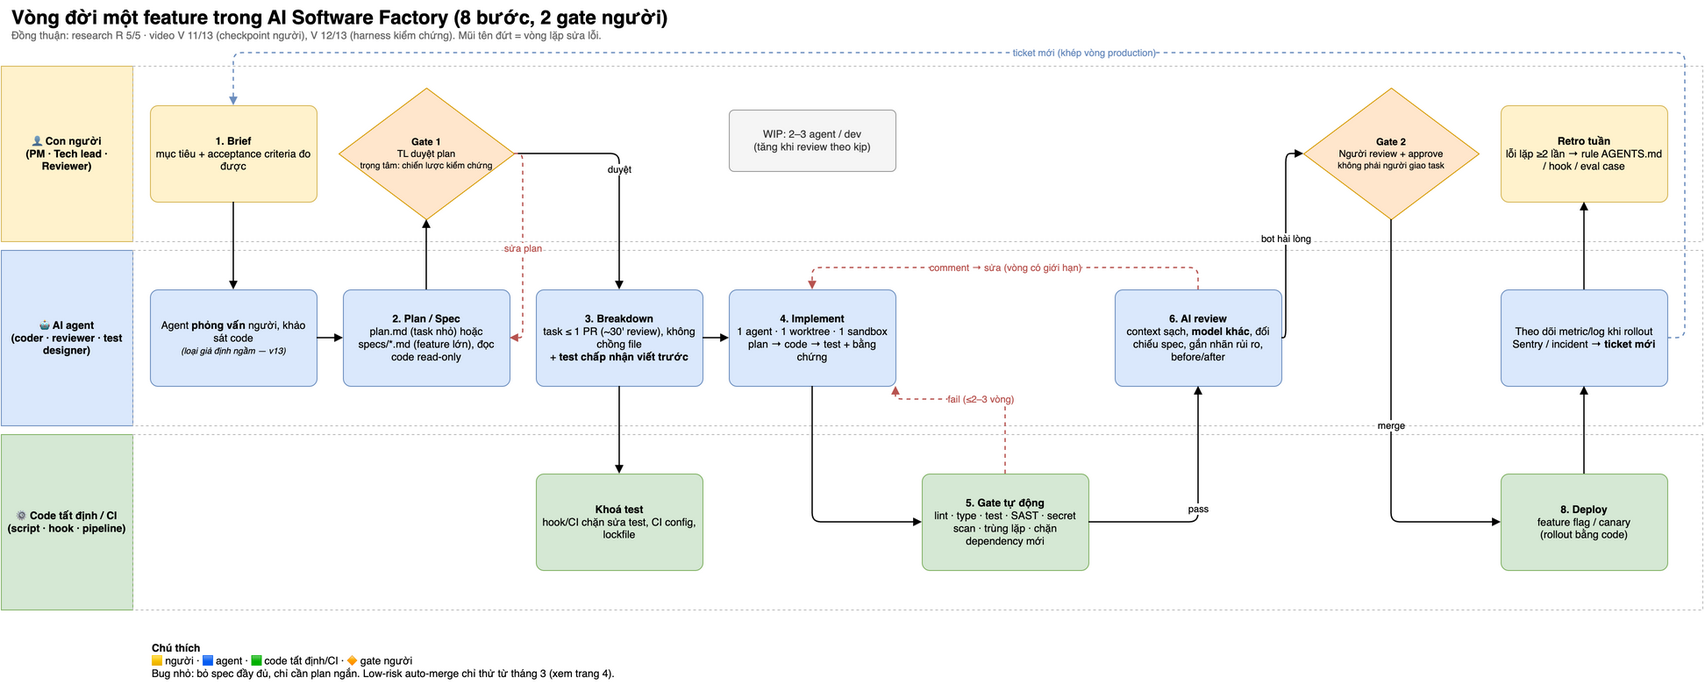
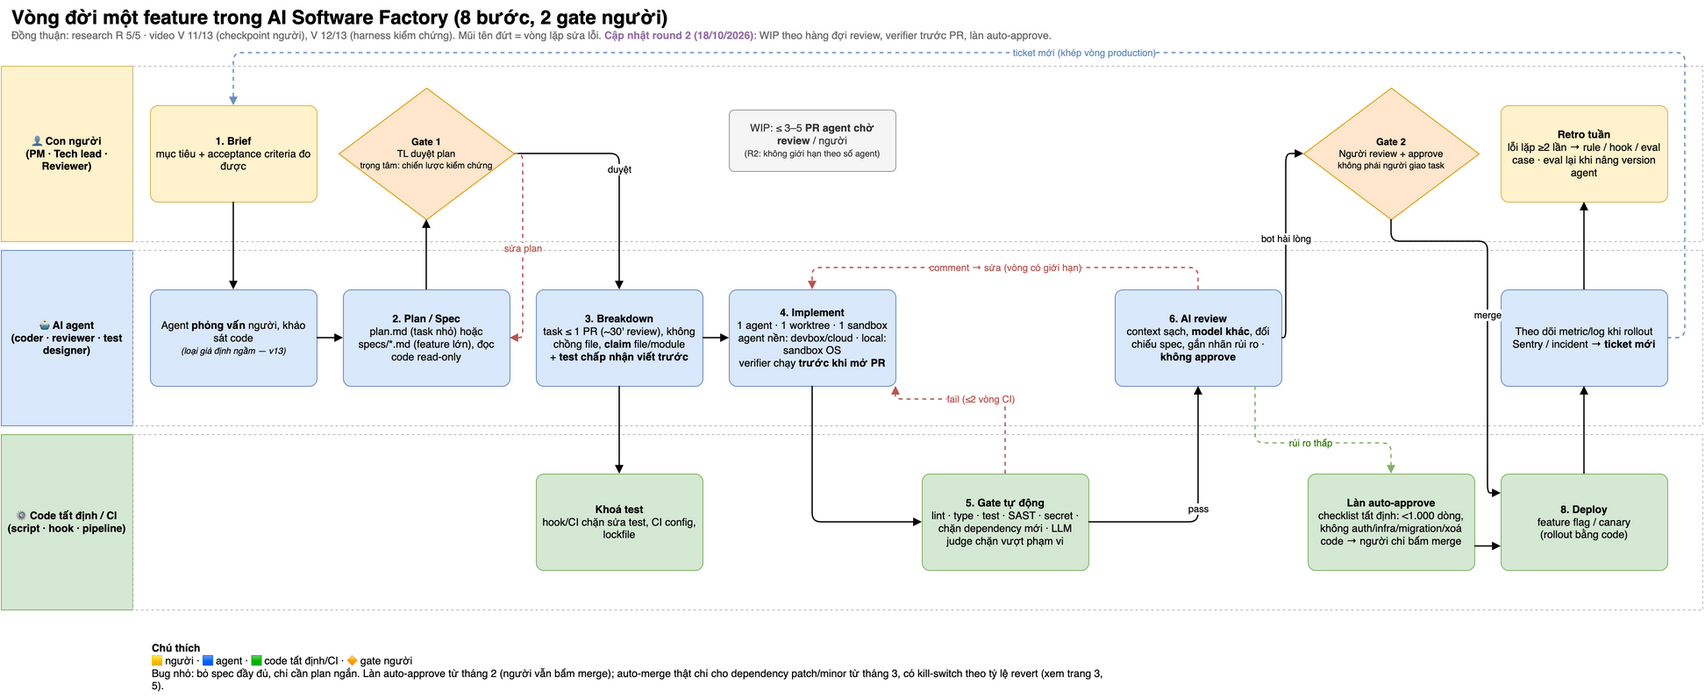
docs(diagrams): update draw.io to round 2 findings, add page 5
- page 1: review-queue WIP, verifier before PR, <=2 CI rounds, auto-approve lane, AI review never approves
- page 2: devbox without prod credentials, cost caps, new telemetry, CI-agent security rules
- page 3: roadmap edits (AGENTS.md hand-written, cost caps, auto-approve -> dep patch auto-merge, stop signals)
- page 4: round 2 verdicts on the 3 tensions
- page 5: round 2 consensus, real disagreements, source fact-check

diff --git a/diagrams/build_drawio.py b/diagrams/build_drawio.py
@@ -55,7 +55,8 @@ def title(p, t, sub):
 def page_process():
     p = Page("1. Quy trình 8 bước", 2000, 900)
     title(p, "Vòng đời một feature trong AI Software Factory (8 bước, 2 gate người)",
-          "Đồng thuận: research R 5/5 · video V 11/13 (checkpoint người), V 12/13 (harness kiểm chứng). Mũi tên đứt = vòng lặp sửa lỗi.")
+          "Đồng thuận: research R 5/5 · video V 11/13 (checkpoint người), V 12/13 (harness kiểm chứng). Mũi tên đứt = vòng lặp sửa lỗi. "
+          "<b style='color:#9673a6'>Cập nhật round 2 (18/10/2026)</b>: WIP theo hàng đợi review, verifier trước PR, làn auto-approve.")
     lanes = [("👤 Con người<br>(PM · Tech lead · Reviewer)", HUMAN, 90),
              ("🤖 AI agent<br>(coder · reviewer · test designer)", AI, 300),
              ("⚙ Code tất định / CI<br>(script · hook · pipeline)", CODE, 510)]
@@ -69,16 +70,17 @@ def page_process():
     b1a = p.box("Agent <b>phỏng vấn</b> người, khảo sát code<br><i style='font-size:10px'>(loại giả định ngầm — v13)</i>", X(0), 345, W, H, BOX + AI)
     b2 = p.box("<b>2. Plan / Spec</b><br>plan.md (task nhỏ) hoặc specs/*.md (feature lớn), đọc code read-only", X(1), 345, W, H, BOX + AI)
     g1 = p.box("<b>Gate 1</b><br>TL duyệt plan<br><span style='font-size:10px'>trọng tâm: chiến lược kiểm chứng</span>", X(1) - 5, 115, W + 10, 150, "rhombus;whiteSpace=wrap;html=1;fontSize=11;" + GATE)
-    b3 = p.box("<b>3. Breakdown</b><br>task ≤ 1 PR (~30' review), không chồng file<br>+ <b>test chấp nhận viết trước</b>", X(2), 345, W, H, BOX + AI)
+    b3 = p.box("<b>3. Breakdown</b><br>task ≤ 1 PR (~30' review), không chồng file, <b>claim</b> file/module<br>+ <b>test chấp nhận viết trước</b>", X(2), 345, W, H, BOX + AI)
     b3c = p.box("<b>Khoá test</b><br>hook/CI chặn sửa test, CI config, lockfile", X(2), 555, W, H, BOX + CODE)
-    b4 = p.box("<b>4. Implement</b><br>1 agent · 1 worktree · 1 sandbox<br>plan → code → test + bằng chứng", X(3), 345, W, H, BOX + AI)
-    n4 = p.box("WIP: 2–3 agent / dev<br>(tăng khi review theo kịp)", X(3), 140, W, 70, BOX + NOTE)
-    b5 = p.box("<b>5. Gate tự động</b><br>lint · type · test · SAST · secret scan · trùng lặp · chặn dependency mới", X(4), 555, W, H, BOX + CODE)
-    b6 = p.box("<b>6. AI review</b><br>context sạch, <b>model khác</b>, đối chiếu spec, gắn nhãn rủi ro, before/after", X(5), 345, W, H, BOX + AI)
+    b4 = p.box("<b>4. Implement</b><br>1 agent · 1 worktree · 1 sandbox<br>agent nền: devbox/cloud · local: sandbox OS<br>verifier chạy <b>trước khi mở PR</b>", X(3), 345, W, H, BOX + AI)
+    n4 = p.box("WIP: ≤ 3–5 <b>PR agent chờ review</b> / người<br><span style='font-size:10px'>(R2: không giới hạn theo số agent)</span>", X(3), 140, W, 70, BOX + NOTE)
+    b5 = p.box("<b>5. Gate tự động</b><br>lint · type · test · SAST · secret · chặn dependency mới · LLM judge chặn vượt phạm vi", X(4), 555, W, H, BOX + CODE)
+    b6 = p.box("<b>6. AI review</b><br>context sạch, <b>model khác</b>, đối chiếu spec, gắn nhãn rủi ro · <b>không approve</b>", X(5), 345, W, H, BOX + AI)
+    b7a = p.box("<b>Làn auto-approve</b><br>checklist tất định: &lt;1.000 dòng, không auth/infra/migration/xoá code → người chỉ bấm merge", X(6), 555, W, H, BOX + CODE)
     g2 = p.box("<b>Gate 2</b><br>Người review + approve<br><span style='font-size:10px'>không phải người giao task</span>", X(6) - 5, 115, W + 10, 150, "rhombus;whiteSpace=wrap;html=1;fontSize=11;" + GATE)
     b8 = p.box("<b>8. Deploy</b><br>feature flag / canary<br>(rollout bằng code)", X(7), 555, W, H, BOX + CODE)
     b8a = p.box("Theo dõi metric/log khi rollout<br>Sentry / incident → <b>ticket mới</b>", X(7), 345, W, H, BOX + AI)
-    b8h = p.box("<b>Retro tuần</b><br>lỗi lặp ≥2 lần → rule AGENTS.md / hook / eval case", X(7), 135, W, H, BOX + HUMAN)
+    b8h = p.box("<b>Retro tuần</b><br>lỗi lặp ≥2 lần → rule / hook / eval case · eval lại khi nâng version agent", X(7), 135, W, H, BOX + HUMAN)
 
     dashed = "dashed=1;strokeColor=#b85450;fontColor=#b85450;"
     p.edge(b1, b1a, "")
@@ -89,18 +91,21 @@ def page_process():
     p.edge(b3, b3c, "")
     p.edge(b3, b4, "")
     p.edge(b4, b5, "", pts=[(X(3) + W / 2, 610)])
-    p.edge(b5, b4, "fail (≤2–3 vòng)", dashed, pts=[(X(4) + W / 2, 470), (X(3) + W, 470)])
+    p.edge(b5, b4, "fail (≤2 vòng CI)", dashed, pts=[(X(4) + W / 2, 470), (X(3) + W, 470)])
     p.edge(b5, b6, "pass", pts=[(X(5) + W / 2, 610)])
     p.edge(b6, b4, "comment → sửa (vòng có giới hạn)", dashed, pts=[(X(5) + W / 2, 320), (X(3) + W / 2, 320)])
     p.edge(b6, g2, "bot hài lòng", "exitX=1;exitY=0.5;entryX=0;entryY=0.5;", pts=[(X(6) - 25, 400), (X(6) - 25, 190)])
-    p.edge(g2, b8, "merge", pts=[(X(6) + W / 2, 610)])
+    p.edge(g2, b8, "merge", "entryX=0;entryY=0.2;", pts=[(X(6) + W / 2, 290), (X(7) - 15, 290), (X(7) - 15, 577)])
+    p.edge(b6, b7a, "rủi ro thấp", "dashed=1;strokeColor=#82b366;fontColor=#2d7600;", pts=[(X(5) + W - 30, 520), (X(6) + W / 2, 520)])
+    p.edge(b7a, b8, "", "exitX=1;exitY=0.75;entryX=0;entryY=0.75;")
     p.edge(b8, b8a, "")
     p.edge(b8a, b8h, "")
     p.edge(b8a, b1, "ticket mới (khép vòng production)", "dashed=1;strokeColor=#6c8ebf;fontColor=#6c8ebf;",
            pts=[(X(7) + W + 20, 400), (X(7) + W + 20, 75), (X(0) + W / 2, 75)])
     p.text("<b>Chú thích</b><br>🟨 người · 🟦 agent · 🟩 code tất định/CI · 🔶 gate người<br>"
-           "Bug nhỏ: bỏ spec đầy đủ, chỉ cần plan ngắn. Low-risk auto-merge chỉ thử từ tháng 3 (xem trang 4).",
-           200, 740, 900, 70)
+           "Bug nhỏ: bỏ spec đầy đủ, chỉ cần plan ngắn. Làn auto-approve từ tháng 2 (người vẫn bấm merge); "
+           "auto-merge thật chỉ cho dependency patch/minor từ tháng 3, có kill-switch theo tỷ lệ revert (xem trang 3, 5).",
+           200, 740, 1100, 70)
     return p
 
 
@@ -108,7 +113,7 @@ def page_process():
 def page_arch():
     p = Page("2. Kiến trúc factory", 1800, 1100)
     title(p, "Kiến trúc: code tất định điều phối, agent chỉ làm phần cần phán đoán",
-          "\"Agent proposes, code disposes\" — V1 (6/13 video). Cô lập worktree/sandbox — R 5/5 · V 8/13. Model routing — V3 (7/13).")
+          "\"Agent proposes, code disposes\" — V1 (6/13 video). Cô lập worktree/sandbox — R 5/5 · V 8/13. Model routing — V3 (7/13). <b style='color:#9673a6'>R2</b>: devbox không credential prod, WIP theo review, trần chi phí.")
     # nguồn việc
     p.box("<b>Nguồn việc</b>", 40, 100, 220, 40, BOX + NOTE)
     src = [p.box(t, 40, 150 + i * 75, 220, 60, BOX + HUMAN) for i, t in enumerate([
@@ -119,9 +124,9 @@ def page_arch():
     q = p.box("<b>Hàng đợi task</b><br>trạng thái = label / file", 345, 145, 220, 70, BOX + CODE)
     cls = p.box("<b>Phân loại</b><br>độ khó + rủi ro (DB/infra/auth = cao)", 595, 145, 220, 70, BOX + CODE)
     router = p.box("<b>Model router</b><br>plan/review: model mạnh<br>scan/worker: model rẻ", 345, 255, 220, 80, BOX + CODE)
-    disp = p.box("<b>Dispatcher</b><br>WIP limit · ngân sách token · retry", 595, 255, 220, 80, BOX + CODE)
-    tele = p.box("<b>Telemetry</b><br>log mọi lần chạy: token · thời gian · pass rate · cost/PR · DORA", 345, 365, 220, 80, BOX + CODE)
-    gates = p.box("<b>Gates + CI</b><br>lint · type · test · SAST · secret · khoá test · branch protection · max vòng lặp", 595, 365, 220, 90, BOX + CODE)
+    disp = p.box("<b>Dispatcher</b><br>WIP theo hàng đợi review · trần chi phí / người / công cụ · ≤2 vòng CI", 595, 255, 220, 80, BOX + CODE)
+    tele = p.box("<b>Telemetry</b><br>token/PR merged · chờ review · PR không review · revert 30 ngày · DORA", 345, 365, 220, 80, BOX + CODE)
+    gates = p.box("<b>Gates + CI</b><br>lint · type · test · SAST · secret · khoá test · LLM judge phạm vi · branch protection", 595, 365, 220, 90, BOX + CODE)
     rel = p.box("<b>Rollout</b><br>flag / canary / rollback", 345, 475, 220, 70, BOX + CODE)
     # data plane
     p.box("", 900, 100, 560, 470, "rounded=1;whiteSpace=wrap;html=1;arcSize=3;dashed=1;fillColor=#f2f6fc;strokeColor=#6c8ebf;")
@@ -130,13 +135,13 @@ def page_arch():
     for i in range(3):
         y = 145 + i * 105
         p.box("", 920, y, 320, 90, "rounded=1;whiteSpace=wrap;html=1;fillColor=#ffffff;strokeColor=#6c8ebf;dashed=1;")
-        p.text(f"<span style='font-size:10px'>sandbox {i+1} · worktree + container · egress allowlist</span>", 925, y + 2, 310, 20)
-        ws.append(p.box(f"<b>Coder agent</b> (task {i+1})<br>plan → code → test", 935, y + 30, 290, 50, BOX + AI))
+        p.text(f"<span style='font-size:10px'>devbox {i+1} · egress allowlist · không credential prod · push qua proxy</span>", 925, y + 2, 310, 20)
+        ws.append(p.box(f"<b>Coder agent</b> (task {i+1})<br>plan → code → verifier → PR", 935, y + 30, 290, 50, BOX + AI))
     tst = p.box("<b>Test designer</b><br>viết test chấp nhận trước; coder không sửa được", 1270, 145, 175, 90, BOX + PURPLE)
     rev = p.box("<b>Reviewer agent</b><br>model khác hãng<br>context sạch<br>đối chiếu spec<br>gắn nhãn rủi ro", 1270, 255, 175, 125, BOX + PURPLE)
     p.box("<b>Không</b> chia vai PM/Architect/Dev kiểu bầy agent — 1 coder mạnh / task", 920, 480, 320, 50, BOX + RISK)
     # repo & human
-    p.box("<b>Git repo = nguồn sự thật</b>: AGENTS.md ngắn (mục lục) · specs/ · tasks · eval nội bộ 20–50 case", 900, 620, 560, 60, BOX + NOTE)
+    p.box("<b>Git repo = nguồn sự thật</b>: AGENTS.md viết tay, ngắn (không /init, không tổng quan repo) · specs/ · tasks · eval nội bộ 20–50 case", 900, 620, 560, 60, BOX + NOTE)
     hum = p.box("<b>Con người</b><br>Gate 1: duyệt plan<br>Gate 2: review PR<br>Retro tuần", 1580, 252, 200, 130, BOX + HUMAN)
     prod = p.box("<b>Production</b>", 345, 620, 220, 60, BOX + RISK)
     # edges: nguồn → bus x=295 → hàng đợi
@@ -154,47 +159,60 @@ def page_arch():
     p.edge(rel, prod, "")
     p.edge(prod, src[3], "lỗi → ticket", "dashed=1;exitX=0;exitY=0.5;entryX=0.5;entryY=1;", pts=[(150, 650)])
     p.text("<b>Ranh giới bảo mật</b> (R 5/5): không session nào có đủ <i>lethal trifecta</i> — dữ liệu riêng + input không tin cậy + kênh ra ngoài. "
-           "Dependency mới phải có người duyệt (slopsquatting 19,7%). Không chạy --yolo ngoài sandbox.", 40, 790, 820, 70)
-    p.text("<b>Chi phí</b>: multi-agent ~15× token → chỉ bật cho task chia được, có ngân sách theo team. "
-           "Kiểm chứng tốn ~40% thời gian một mission (v04) — dồn ngân sách vào kiểm chứng, không vào số worker.", 900, 790, 820, 70)
+           "Dependency mới phải có người duyệt (slopsquatting 19,7%). Không chạy --yolo ngoài sandbox.<br>"
+           "<b>R2</b>: agent đọc input không tin cậy (issue/PR/Sentry) → không shell, ghi qua safe outputs; không pull_request_target; "
+           "publish bằng OIDC; pin MCP/skill (Clinejection, Agentjacking, PocketOS).", 40, 790, 820, 110)
+    p.text("<b>Chi phí</b>: multi-agent ~15× token (agent teams ~7×) → chỉ bật cho task chia được. "
+           "Kiểm chứng tốn ~40% thời gian một mission (v04) — dồn ngân sách vào kiểm chứng, không vào số worker.<br>"
+           "<b>R2</b>: Uber tiêu hết ngân sách AI năm trong 4 tháng → trần $/người/công cụ từ ngày đầu, đo token/PR merged.", 900, 790, 820, 110)
     return p
 
 
 # ---------------------------------------------------------------- Trang 3: lộ trình
 def page_roadmap():
-    p = Page("3. Lộ trình 3 tháng", 1800, 680)
-    title(p, "Lộ trình 3 tháng cho team 3–10 kỹ sư", "Mỗi giai đoạn chỉ sang bước tiếp khi đạt tiêu chí thoát. Ngưỡng % là suy luận — hiệu chỉnh theo baseline của team.")
+    p = Page("3. Lộ trình 3 tháng", 1800, 800)
+    title(p, "Lộ trình 3 tháng cho team 3–10 kỹ sư (cập nhật round 2)",
+          "Mỗi giai đoạn chỉ sang bước tiếp khi đạt tiêu chí thoát. Ngưỡng % là suy luận — hiệu chỉnh theo baseline của team. "
+          "<b style='color:#9673a6'>R2</b> = thêm/sửa ở round 2.")
+    R2 = "<b style='color:#9673a6'>R2</b> "
     cols = [
         ("Tháng 1 — Nền móng “agent-ready”", "Một agent làm tốt trên repo; đo được",
-         ["AGENTS.md ngắn (lệnh build/test, quy ước, gotcha)", "devcontainer / init.sh tái lập được", "CI nhanh (&lt;10 phút) + check test integrity",
-          "Sandbox + network allowlist", "Mỗi dev: 1 agent tương tác, plan→implement→verify", "<b>Baseline DORA + thời gian review</b>", "Eval nội bộ 20–50 case từ PR đã đóng"],
+         [R2 + "AGENTS.md viết tay ≤ ~150–200 dòng, không /init, không tổng quan repo", "devcontainer / init.sh tái lập được", "CI nhanh (&lt;10 phút) + check test integrity",
+          "Sandbox OS + network allowlist", R2 + "Agent trong CI: read-only + safe outputs, không pull_request_target", R2 + "<b>Trần chi phí / người / công cụ</b> qua gateway",
+          "<b>Baseline DORA + thời gian review</b> · eval nội bộ 20–50 case", R2 + "Junior: chế độ “hỏi để hiểu”, không giao hết"],
          "CI tin cậy · có baseline · CI chặn sửa test & dependency lạ", CODE),
         ("Tháng 2 — Có cấu trúc + async", "Spec, verify, việc vặt chạy nền",
-         ["Chạy đủ 8 bước cho 1–2 feature thật", "Reviewer agent model khác trong CI", "Nhãn <i>agent-ok</i>: bug có repro, bump dependency, test, docs → background agent",
-          "Policy kích thước PR", "WIP ≤ 2–3 agent ghi / dev", "Người duyệt <b>100%</b> PR"],
-         "≥ ~50% PR agent merge với ít chỉnh sửa · review time tăng ≤ 25–30%", AI),
+         ["Chạy đủ 8 bước cho 1–2 feature thật", "Reviewer agent model khác trong CI (không approve)", "Nhãn <i>agent-ok</i>: bug có repro, bump dependency, test, docs → background agent",
+          "Policy kích thước PR", R2 + "WIP ≤ 3–5 <b>PR agent chờ review</b> / người (không đếm agent)",
+          R2 + "<b>Làn auto-approve</b> theo checklist tất định, người vẫn bấm merge; đo lead time + revert trước/sau 4 tuần"],
+         "≥ ~50% PR agent merge với ít chỉnh sửa · review time tăng ≤ 25–30% · " + R2 + "PR agent bị bỏ &lt; ~1/3", AI),
         ("Tháng 3 — Song song có kiểm soát", "Factory nhỏ, dùng chung cả team",
-         ["Dây chuyền bằng code tất định (queue, gate, retry)", "Orchestrator–worker cho feature chia được module", "Model routing theo pha · best-of-N chỉ khi có oracle",
-          "Ephemeral devbox không secrets prod", "Sentry/incident → ticket · telemetry · dashboard cost/PR", "Thử auto-merge <b>danh mục hẹp</b> nếu CFR ổn định"],
-         "CFR không tăng · cost/PR trong ngân sách · 0 sự cố bảo mật · quyết định bằng dữ liệu", PURPLE),
+         ["Dây chuyền bằng code tất định (queue, gate, retry)", "Orchestrator–worker cho feature chia được module + kênh claim", "Model routing theo pha · best-of-N chỉ khi có oracle",
+          R2 + "Agent nền trên devbox/cloud, env verify giống thật, không chạm prod",
+          R2 + "Dashboard: chờ review · PR không review · token/PR merged · revert 30 ngày · deploy/tuần",
+          R2 + "Auto-merge <b>dependency patch/minor</b>: coverage vùng chạm, chờ bản phát hành mới, kill-switch theo revert"],
+         "CFR không tăng · chi phí trong trần · 0 sự cố bảo mật · quyết định bằng dữ liệu", PURPLE),
     ]
     prev = None
     for i, (h, goal, items, exitc, col) in enumerate(cols):
         x = 40 + i * 580
         hd = p.box(f"<b style='font-size:15px'>{h}</b><br><i>{goal}</i>", x, 100, 520, 70, BOX + col)
-        p.box("<div style='text-align:left'>" + "<br>".join("• " + t for t in items) + "</div>", x, 185, 520, 165, BOX + "fillColor=#ffffff;strokeColor=#999999;align=left;verticalAlign=top;fontSize=13;")
-        ex = p.box(f"<b>Tiêu chí thoát</b><br>{exitc}", x, 365, 520, 70, BOX + GATE)
+        p.box("<div style='text-align:left'>" + "<br>".join("• " + t for t in items) + "</div>", x, 185, 520, 230, BOX + "fillColor=#ffffff;strokeColor=#999999;align=left;verticalAlign=top;fontSize=13;")
+        ex = p.box(f"<b>Tiêu chí thoát</b><br>{exitc}", x, 430, 520, 70, BOX + GATE)
         if prev:
-            p.edge(prev, hd, "đạt", pts=[(x - 30, 400), (x - 30, 135)])
+            p.edge(prev, hd, "đạt", pts=[(x - 30, 465), (x - 30, 135)])
         prev = ex
     p.box("<b>Rủi ro phải chặn từ ngày đầu</b><br>"
-          "① Reward hacking test → test viết trước + khoá bằng CI &nbsp; ② Review fatigue → WIP limit, PR nhỏ, AI lọc trước &nbsp; "
+          "① Reward hacking test → test viết trước + khoá bằng CI &nbsp; ② Review fatigue → WIP theo hàng đợi review, PR nhỏ, AI lọc trước &nbsp; "
           "③ Prompt injection / rò secrets → sandbox, tránh lethal trifecta &nbsp; ④ Slopsquatting → chặn dependency mới &nbsp; "
-          "⑤ Nợ kỹ thuật → linter trùng lặp + dọn định kỳ &nbsp; ⑥ Ảo tưởng năng suất → quyết định theo telemetry",
-          40, 465, 1680, 80, BOX + RISK)
-    p.box("<b>Công cụ tối thiểu</b>: 1 coding agent CLI (hook, subagent, worktree) · 1 model khác hãng để review · 1 async agent gắn tracker · "
-          "Git có branch protection + merge queue · SAST + secret scan + dependency allowlist · devcontainer/Docker · dashboard DORA/review/cost. "
-          "<b>Chưa cần</b> framework multi-agent nặng.", 40, 565, 1680, 60, BOX + NOTE)
+          "⑤ Nợ kỹ thuật → linter trùng lặp + dọn định kỳ &nbsp; ⑥ Ảo tưởng năng suất → quyết định theo telemetry &nbsp; "
+          + R2 + "⑦ Agent CI + input không tin cậy → không shell, OIDC &nbsp; " + R2 + "⑧ Chi phí vượt trần (Uber) → trần theo người/công cụ",
+          40, 530, 1680, 95, BOX + RISK)
+    p.box("<b>Công cụ tối thiểu</b>: 1 coding agent CLI (hook, subagent, worktree, sandbox) · 1 model khác hãng để review · 1 async agent gắn tracker · "
+          "Git có branch protection + merge queue · SAST + secret scan + dependency allowlist · devcontainer/Docker · " + R2 + "gateway quy chi phí · dashboard DORA/review/cost. "
+          "<b>Chưa cần</b> framework multi-agent nặng.", 40, 645, 1680, 60, BOX + NOTE)
+    p.text("<b>Tín hiệu dừng mở rộng</b> (R2): hàng đợi review tăng nhanh hơn PR merged · PR agent bị bỏ/làm lại &gt; ~1/3 · deploy/tuần không tăng dù PR tăng · "
+           "tỷ lệ xanh nhánh main giảm · cần &gt; 2 vòng CI mới xanh.", 40, 720, 1680, 50)
     return p
 
 
@@ -224,12 +242,16 @@ def page_consensus():
     p.text("<b style='font-size:15px;color:#2d7600'>VIDEO · 13 practitioner</b>", 880, 140, 260, 30)
     p.box("<b style='font-size:15px'>3 điểm căng — team cần quyết</b>", 1360, 110, 400, 45, BOX + GATE)
     tens = [("Auto-merge PR rủi ro thấp?", "Research: người duyệt 100% (Stripe)<br>Video: 4/13 cho auto-merge",
-             "→ Tháng 1–2 duyệt 100%; tháng 3 thử danh mục hẹp; DB/infra/auth luôn cần người"),
-            ("Song song bao nhiêu?", "Research: 2–5 agent/người<br>Video: 15–20 task (v06, v10, không số đo)", "→ Giữ WIP limit"),
+             "→ Tháng 1–2 duyệt 100%; tháng 3 thử danh mục hẹp; DB/infra/auth luôn cần người",
+             "R2 (7/7): auto-approve checklist tất định (Ona), auto-merge chỉ dep patch/minor; chưa có dữ liệu incident"),
+            ("Song song bao nhiêu?", "Research: 2–5 agent/người<br>Video: 15–20 task (v06, v10, không số đo)", "→ Giữ WIP limit",
+             "R2 (7/7): không có dữ liệu cho con số nào → WIP theo PR chờ review; xung đột 27–42% cặp PR"),
             ("Máy dev hay sandbox?", "Research: sandbox cô lập<br>Video v03: cần env thật trên laptop",
-             "→ Env tái lập được; nếu chạy máy thật: cấm egress tự do, không secrets prod")]
-    for i, (q, a, d) in enumerate(tens):
-        p.box(f"<b>{q}</b><br><span style='font-size:11px'>{a}</span><br><b style='color:#2d7600'>{d}</b>", 1360, 170 + i * 160, 400, 145, BOX + "fillColor=#ffffff;strokeColor=#d79b00;")
+             "→ Env tái lập được; nếu chạy máy thật: cấm egress tự do, không secrets prod",
+             "R2 (7/7): local OK nếu sandbox OS; agent nền trên devbox/cloud giống thật; “cấm hẳn local” bị bác")]
+    for i, (q, a, d, r2) in enumerate(tens):
+        p.box(f"<b>{q}</b><br><span style='font-size:11px'>{a}</span><br><b style='color:#2d7600'>{d}</b>"
+              f"<br><span style='font-size:11px;color:#9673a6'><b>{r2}</b></span>", 1360, 170 + i * 165, 400, 155, BOX + "fillColor=#ffffff;strokeColor=#d79b00;")
     p.box("<b>Độ tin cậy nguồn</b> — Research: paper, DORA, METR, blog kỹ thuật (URL đã kiểm tra; gpt-oss bị loại vì 10/17 link 404). "
           "Video: 3 video đạt 3/5 (Builder.io, Factory, HumanLayer), còn lại tutorial/demo; <b>không video nào có số đo có phương pháp</b>. "
           "Khi hai bên khác nhau về rủi ro/số liệu → ưu tiên research; video có giá trị nhất ở pattern vận hành.",
@@ -237,7 +259,47 @@ def page_consensus():
     return p
 
 
-pages = [page_process(), page_arch(), page_roadmap(), page_consensus()]
+# ---------------------------------------------------------------- Trang 5: round 2
+def page_round2():
+    p = Page("5. Round 2 — đồng thuận & sửa đổi", 1800, 780)
+    title(p, "Round 2 (18/10/2026): 7 báo cáo cô lập × 3 người chấm độc lập — cái gì vững, cái gì phải sửa",
+          "5 Claude subagent (vendor · học thuật · case study · bảo mật · hoài nghi) + agy Gemini 4 Argon / 3.8 Flash. "
+          "Điểm = trung vị 3 người chấm (2 Claude + 1 Gemini, κ = 0,68–0,77), 705/705 trích dẫn đã kiểm. Chi tiết: round2/CONSENSUS.md")
+    strong = [("Nút thắt = hàng đợi review (Faros review ~5×, LinearB chờ 17,6h P75)", "7/7"),
+              ("Lợi ích cá nhân ≠ lợi ích hệ thống (Faros deploy/tuần −11,7%)", "7/7"),
+              ("Auto-merge chỉ danh mục hẹp, quyết bằng luật tất định", "7/7"),
+              ("Sandbox egress allowlist, không credential prod", "7/7"),
+              ("Verify cần env giống thật, không chạm prod", "7/7"),
+              ("AGENTS.md ngắn, viết tay — dài/tự sinh tốn +20%, không tăng độ đúng", "7/7"),
+              ("Agent gian lận để CI xanh; repo thiếu test → agent không tự kiểm được", "7/7"),
+              ("~44% task sinh code có lỗ hổng (Veracode 2026)", "7/7"),
+              ("Agent CI + input không tin cậy đã bị khai thác (Clinejection…)", "7/7"),
+              ("Không còn RCT năng suất đáng tin (METR 02/2026 tự nhận vỡ thiết kế)", "6/7")]
+    p.box("<b style='font-size:15px'>Đồng thuận rất mạnh</b> (18/36 claim, Σ ≥ 12/14)", 40, 100, 820, 40, BOX + CODE)
+    p.box("<div style='text-align:left'>" + "<br>".join(f"• {t} &nbsp;<b>{s}</b>" for t, s in strong) + "</div>",
+          40, 150, 820, 290, BOX + "fillColor=#ffffff;strokeColor=#82b366;align=left;verticalAlign=top;fontSize=13;")
+    p.box("<b style='font-size:15px'>Bất đồng thật</b> (đều do 2 báo cáo agy)", 900, 100, 860, 40, BOX + GATE)
+    dis = [("N18 · “Cấm hẳn agent local” (Σ −1)", "Chỉ Flash đòi cấm; D, G, Argon nói ngược lại", "→ Không cấm, bắt buộc sandbox OS"),
+           ("N15 · Ngưỡng số agent/người (Σ 7)", "Argon 3–4 · Flash 2 · D 2–4 · G 2–3; H bác bỏ đặt ngưỡng; 7/7: không có dữ liệu", "→ WIP theo PR chờ review"),
+           ("N29 · Đã có cost/PR đáng tin? (Σ 4)", "Argon $30–80 (URL 404) · Flash $0,5–3 (không nguồn); F, G, H: chưa có", "→ Coi mọi cost/PR là chưa kiểm chứng")]
+    for i, (q, a, d) in enumerate(dis):
+        p.box(f"<b>{q}</b><br><span style='font-size:11px'>{a}</span><br><b style='color:#2d7600'>{d}</b>",
+              900, 150 + i * 102, 860, 92, BOX + "fillColor=#ffffff;strokeColor=#d79b00;")
+    p.box("<b style='font-size:15px'>Fact-check trên nguồn gốc</b> (18 số liệu: 12 đúng · 5 sai một phần · 1 không kiểm được)", 40, 480, 1720, 40, BOX + RISK)
+    fixes = ["Faros review “+441%” → <b>sai nguồn</b>; Faros ghi “5X median review time” (441,5% là bài Medium) — giải đáp câu hỏi treo của round 1",
+             "Faros incident/PR +242,7% (04/2026) → <b>đã cũ</b>: dữ liệu 08–09/2026 chỉ +14,5%/PR nhưng incident/tháng +125,4%; Q3 “Speed Trap”: merge không review +76,3%",
+             "METR “30–50%” là tỷ lệ <b>dev</b> giữ lại task, không phải tỷ lệ task · ETH: “không cải thiện, +20% chi phí” (−3% chưa thấy trong abstract)",
+             "Vercel “58% PR merge không cần người” → bài <b>đã bị gỡ</b> (404); “671 PR, 0 revert” chỉ có nguồn thứ cấp",
+             "“DORA −1,5% / −7,2%” là <b>DORA 2024</b> (mỗi 25% tăng adoption) · DORA 2026 <b>chưa phát hành</b> · CooperBench: tính năng độc lập, không “liên đới”"]
+    p.box("<div style='text-align:left'>" + "<br>".join("• " + t for t in fixes) + "</div>",
+          40, 530, 1720, 115, BOX + "fillColor=#ffffff;strokeColor=#b85450;align=left;verticalAlign=top;fontSize=13;")
+    p.box("<b>Độ tin cậy nguồn R2</b>: Claude subagent 94–100% URL mở được; agy-argon 8/66 và agy-flash 5/17 URL 404 (slug “gần đúng”). "
+          "Flash dùng nhiều số 2023–2025 như bằng chứng mới. Gần như mọi case study công ty (Stripe, Ramp, Uncountable, Vercel, Ona, Intercom) là <b>tự báo cáo</b>; "
+          "chưa ai công bố defect/incident của code agent so với code người.", 40, 670, 1720, 80, BOX + NOTE)
+    return p
+
+
+pages = [page_process(), page_arch(), page_roadmap(), page_consensus(), page_round2()]
 out = os.path.join(os.path.dirname(os.path.abspath(__file__)), "software-factory.drawio")
 with open(out, "w", encoding="utf-8") as f:
     f.write('<mxfile host="build_drawio.py">' + "".join(pg.xml(i) for i, pg in enumerate(pages)) + "</mxfile>")

diff --git a/README.md b/README.md
@@ -49,21 +49,23 @@ dùng `gpt-oss-120b-medium` thay thế.
 
 ## Sơ đồ
 
-Mở `diagrams/software-factory.drawio` bằng draw.io (desktop hoặc app.diagrams.net). Muốn sửa nội dung thì sửa
+Mở `diagrams/software-factory.drawio` bằng draw.io (desktop hoặc app.diagrams.net). Sơ đồ đã cập nhật theo round 2 (18/10/2026); mục round 2 được đánh dấu **R2** màu tím. Muốn sửa nội dung thì sửa
 `diagrams/build_drawio.py` rồi chạy lại `python3 diagrams/build_drawio.py`. Xuất PNG bằng lệnh
-`drawio -x -f png -p <trang 1..4> -o out.png diagrams/software-factory.drawio`.
+`drawio -x -f png -p <trang 1..5> -o out.png diagrams/software-factory.drawio`.
 
 | Trang | Nội dung |
 |---|---|
-| 1 | Quy trình 8 bước, chia làn Người / AI agent / Code tất định, có 2 gate và các vòng sửa lỗi |
+| 1 | Quy trình 8 bước, chia làn Người / AI agent / Code tất định, có 2 gate, các vòng sửa lỗi và làn auto-approve (R2) |
 | 2 | Kiến trúc: control plane (code tất định) và data plane (agent trong sandbox), đường đi của PR, khép vòng production |
-| 3 | Lộ trình 3 tháng, tiêu chí thoát từng giai đoạn, rủi ro, công cụ tối thiểu |
-| 4 | Bản đồ đồng thuận research × video và 3 điểm căng |
+| 3 | Lộ trình 3 tháng, tiêu chí thoát từng giai đoạn, rủi ro, công cụ tối thiểu, tín hiệu dừng mở rộng (R2) |
+| 4 | Bản đồ đồng thuận research × video và 3 điểm căng, kèm kết luận round 2 |
+| 5 | Round 2: đồng thuận 7 báo cáo × 3 người chấm, bất đồng thật, kết quả fact-check |
 
 ![Quy trình 8 bước](diagrams/page1.png)
 ![Kiến trúc](diagrams/page2.png)
 ![Lộ trình 3 tháng](diagrams/page3.png)
 ![Bản đồ đồng thuận](diagrams/page4.png)
+![Round 2](diagrams/page5.png)
 
 ## License
 
